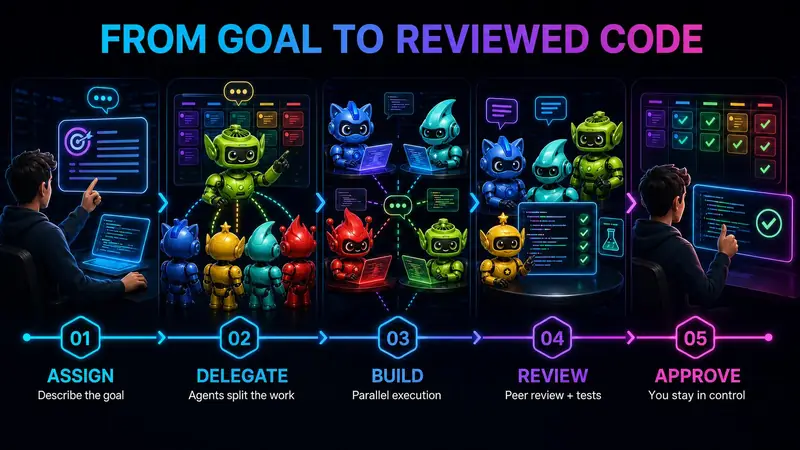
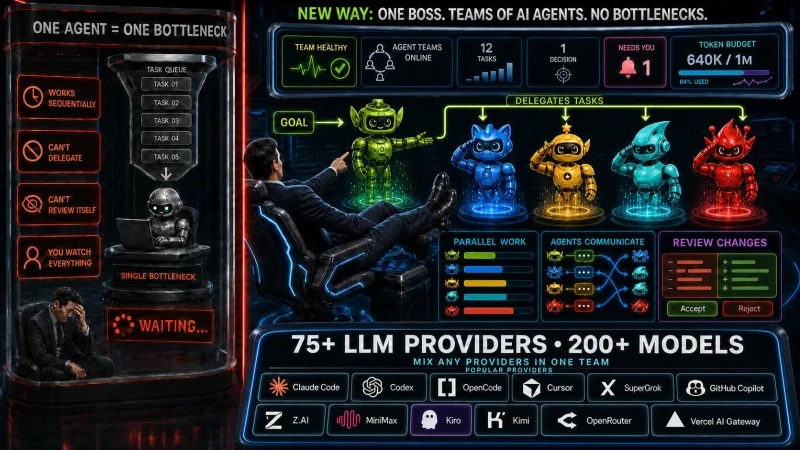
feat(landing): refine hero proof presentation

diff --git a/landing/assets/styles/cyberpunk-hero.scss b/landing/assets/styles/cyberpunk-hero.scss
@@ -455,14 +455,22 @@
 
 .cyber-hero__providers {
   width: min(570px, 100%);
-  margin: 0 0 20px;
+  margin: 0 0 16px;
+}
+
+.cyber-hero__providers-heading {
+  display: flex;
+  align-items: center;
+  justify-content: space-between;
+  gap: 12px;
+  margin-bottom: 8px;
 }
 
 .cyber-hero__providers-label {
   display: flex;
   align-items: center;
   gap: 8px;
-  margin: 0 0 8px;
+  margin: 0;
   color: color-mix(in srgb, var(--cyber-text) 74%, transparent);
   font-family: var(--at-font-mono);
   font-size: 0.67rem;
@@ -482,10 +490,48 @@
   content: "";
 }
 
+.cyber-hero__provider-coverage {
+  display: flex;
+  align-items: center;
+  flex: 0 0 auto;
+  gap: 10px;
+  margin: 0;
+}
+
+.cyber-hero__provider-coverage-item {
+  display: flex;
+  align-items: baseline;
+  gap: 4px;
+  padding-left: 10px;
+  border-left: 1px solid rgba(0, 234, 255, 0.2);
+  font-family: var(--at-font-mono);
+  line-height: 1;
+}
+
+.cyber-hero__provider-coverage-item dt {
+  color: var(--cyber-cyan);
+  font-size: 0.92rem;
+  font-weight: 900;
+  text-shadow: 0 0 12px rgba(0, 234, 255, 0.34);
+}
+
+.cyber-hero__provider-coverage-item dd {
+  margin: 0;
+  color: color-mix(in srgb, var(--cyber-text) 64%, transparent);
+  font-size: 0.56rem;
+  font-weight: 700;
+  letter-spacing: 0.08em;
+  text-transform: uppercase;
+}
+
 .cyber-hero__provider-list {
-  display: grid;
-  grid-template-columns: repeat(3, minmax(0, 1fr));
-  gap: 7px;
+  display: flex;
+  align-items: center;
+  flex-wrap: wrap;
+  gap: 5px;
+  margin: 0;
+  padding: 0;
+  list-style: none;
 }
 
 .cyber-hero__provider {
@@ -495,12 +541,13 @@
   display: flex;
   align-items: center;
   min-width: 0;
-  min-height: 36px;
-  gap: 7px;
-  padding: 5px 8px;
+  min-height: 28px;
+  flex: 0 0 auto;
+  gap: 5px;
+  padding: 3px 8px 3px 7px;
   overflow: hidden;
   border: 1px solid color-mix(in srgb, var(--provider-accent) 27%, rgba(255, 255, 255, 0.1));
-  border-radius: 9px;
+  border-radius: 999px;
   background:
     linear-gradient(135deg, color-mix(in srgb, var(--provider-accent) 11%, transparent), transparent 62%),
     rgba(4, 10, 25, 0.5);
@@ -515,8 +562,8 @@
 
 .cyber-hero__provider::after {
   position: absolute;
-  inset: 0 auto 0 0;
-  width: 2px;
+  inset: 6px auto 6px 0;
+  width: 1px;
   background: var(--provider-accent);
   box-shadow: 0 0 9px var(--provider-accent);
   content: "";
@@ -526,22 +573,22 @@
 .cyber-hero__provider-icon {
   display: grid;
   flex: 0 0 auto;
-  width: 22px;
-  height: 22px;
+  width: 18px;
+  height: 18px;
   place-items: center;
   color: var(--provider-accent);
   filter: drop-shadow(0 0 7px color-mix(in srgb, var(--provider-accent) 42%, transparent));
 }
 
 .cyber-hero__provider-icon svg {
-  width: 18px;
-  height: 18px;
+  width: 15px;
+  height: 15px;
 }
 
 .cyber-hero__provider-name {
   min-width: 0;
   color: var(--cyber-text);
-  font-size: 0.75rem;
+  font-size: 0.67rem;
   font-weight: 800;
   line-height: 1.1;
   white-space: nowrap;
@@ -2057,39 +2104,63 @@
   }
 
   .cyber-hero__providers {
-    margin-bottom: 18px;
+    margin-bottom: 16px;
+  }
+
+  .cyber-hero__providers-heading {
+    gap: 8px;
+    margin-bottom: 7px;
   }
 
   .cyber-hero__providers-label {
-    margin-bottom: 7px;
     font-size: 0.61rem;
   }
 
+  .cyber-hero__provider-coverage {
+    gap: 7px;
+  }
+
+  .cyber-hero__provider-coverage-item {
+    gap: 3px;
+    padding-left: 7px;
+  }
+
+  .cyber-hero__provider-coverage-item dt {
+    font-size: 0.78rem;
+  }
+
+  .cyber-hero__provider-coverage-item dd {
+    font-size: 0.48rem;
+    letter-spacing: 0.04em;
+  }
+
   .cyber-hero__provider-list {
-    gap: 6px;
+    display: grid;
+    grid-template-columns: repeat(3, minmax(0, 1fr));
+    gap: 4px;
   }
 
   .cyber-hero__provider {
-    min-height: 34px;
-    gap: 5px;
-    padding: 4px 6px;
-    border-radius: 8px;
+    min-height: 27px;
+    width: 100%;
+    gap: 4px;
+    padding: 3px 7px 3px 6px;
   }
 
   .cyber-hero__provider-icon {
-    width: 19px;
-    height: 19px;
+    width: 17px;
+    height: 17px;
   }
 
   .cyber-hero__provider-icon svg {
-    width: 16px;
-    height: 16px;
+    width: 14px;
+    height: 14px;
   }
 
   .cyber-hero__provider-name {
-    font-size: clamp(0.61rem, 2.7vw, 0.72rem);
-    line-height: 1.04;
-    white-space: normal;
+    font-size: clamp(0.58rem, 2.5vw, 0.66rem);
+    line-height: 1;
+    white-space: nowrap;
   }
 
   .cyber-hero__actions {
@@ -2238,17 +2309,18 @@
     font-size: 2.1rem;
   }
 
-  .cyber-hero__provider-list {
-    gap: 5px;
+  .cyber-hero__providers-heading {
+    align-items: flex-start;
+    flex-direction: column;
   }
 
-  .cyber-hero__provider {
-    min-height: 32px;
-    padding-inline: 5px;
+  .cyber-hero__provider-coverage-item:first-child {
+    padding-left: 0;
+    border-left: 0;
   }
 
   .cyber-hero__provider-name {
-    font-size: 0.59rem;
+    font-size: 0.58rem;
   }
 }
 

diff --git a/landing/components/sections/HeroSection.vue b/landing/components/sections/HeroSection.vue
@@ -219,11 +219,23 @@ onUnmounted(() => {
             class="cyber-hero__providers"
             :aria-label="supportedProvidersLabel"
           >
-            <p class="cyber-hero__providers-label">
-              {{ supportedProvidersLabel }}
-            </p>
-            <div class="cyber-hero__provider-list">
-              <div
+            <div class="cyber-hero__providers-heading">
+              <p class="cyber-hero__providers-label">
+                {{ supportedProvidersLabel }}
+              </p>
+              <dl class="cyber-hero__provider-coverage">
+                <div class="cyber-hero__provider-coverage-item">
+                  <dt>75+</dt>
+                  <dd>{{ t("hero.providers") }}</dd>
+                </div>
+                <div class="cyber-hero__provider-coverage-item">
+                  <dt>200+</dt>
+                  <dd>{{ t("hero.models") }}</dd>
+                </div>
+              </dl>
+            </div>
+            <ul class="cyber-hero__provider-list">
+              <li
                 v-for="provider in supportedProviders"
                 :key="provider.id"
                 class="cyber-hero__provider"
@@ -235,8 +247,8 @@ onUnmounted(() => {
                 <span class="cyber-hero__provider-name">
                   {{ provider.name }}
                 </span>
-              </div>
-            </div>
+              </li>
+            </ul>
           </div>
 
           <div class="cyber-hero__actions">
